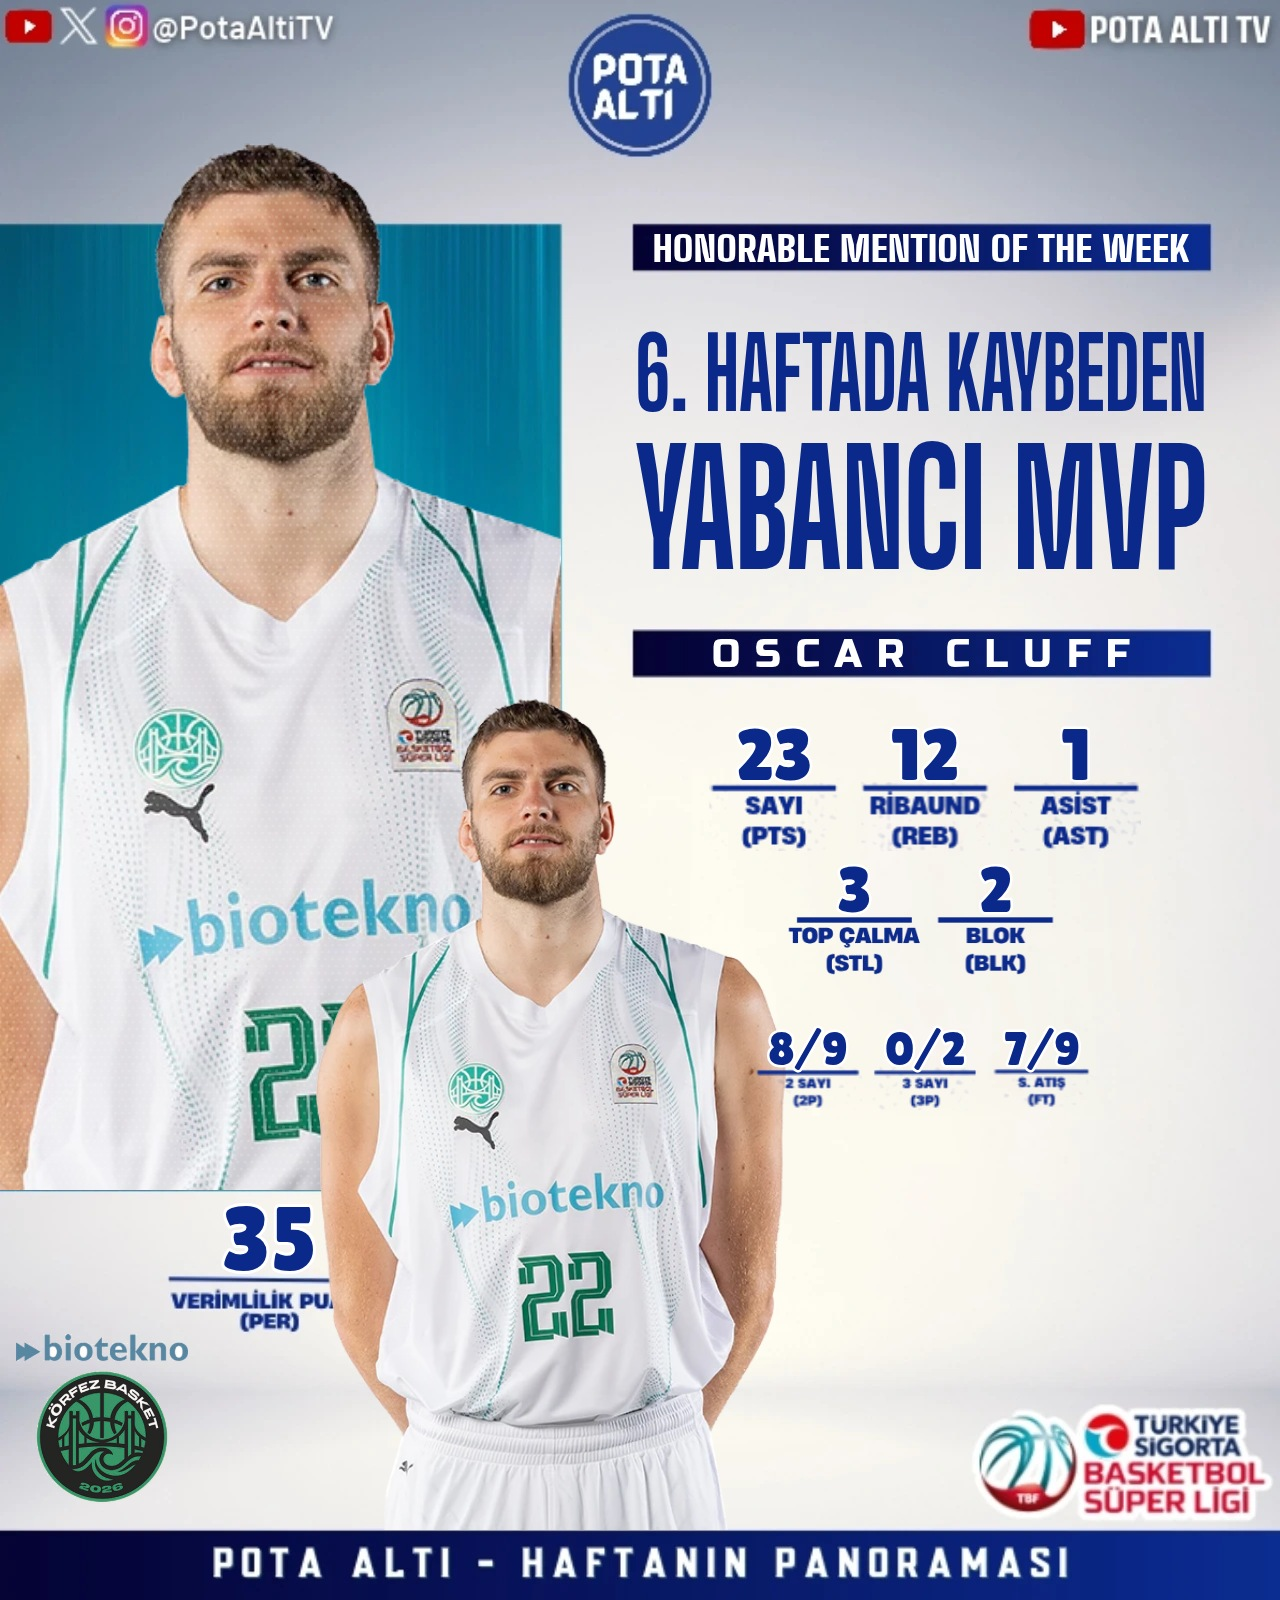
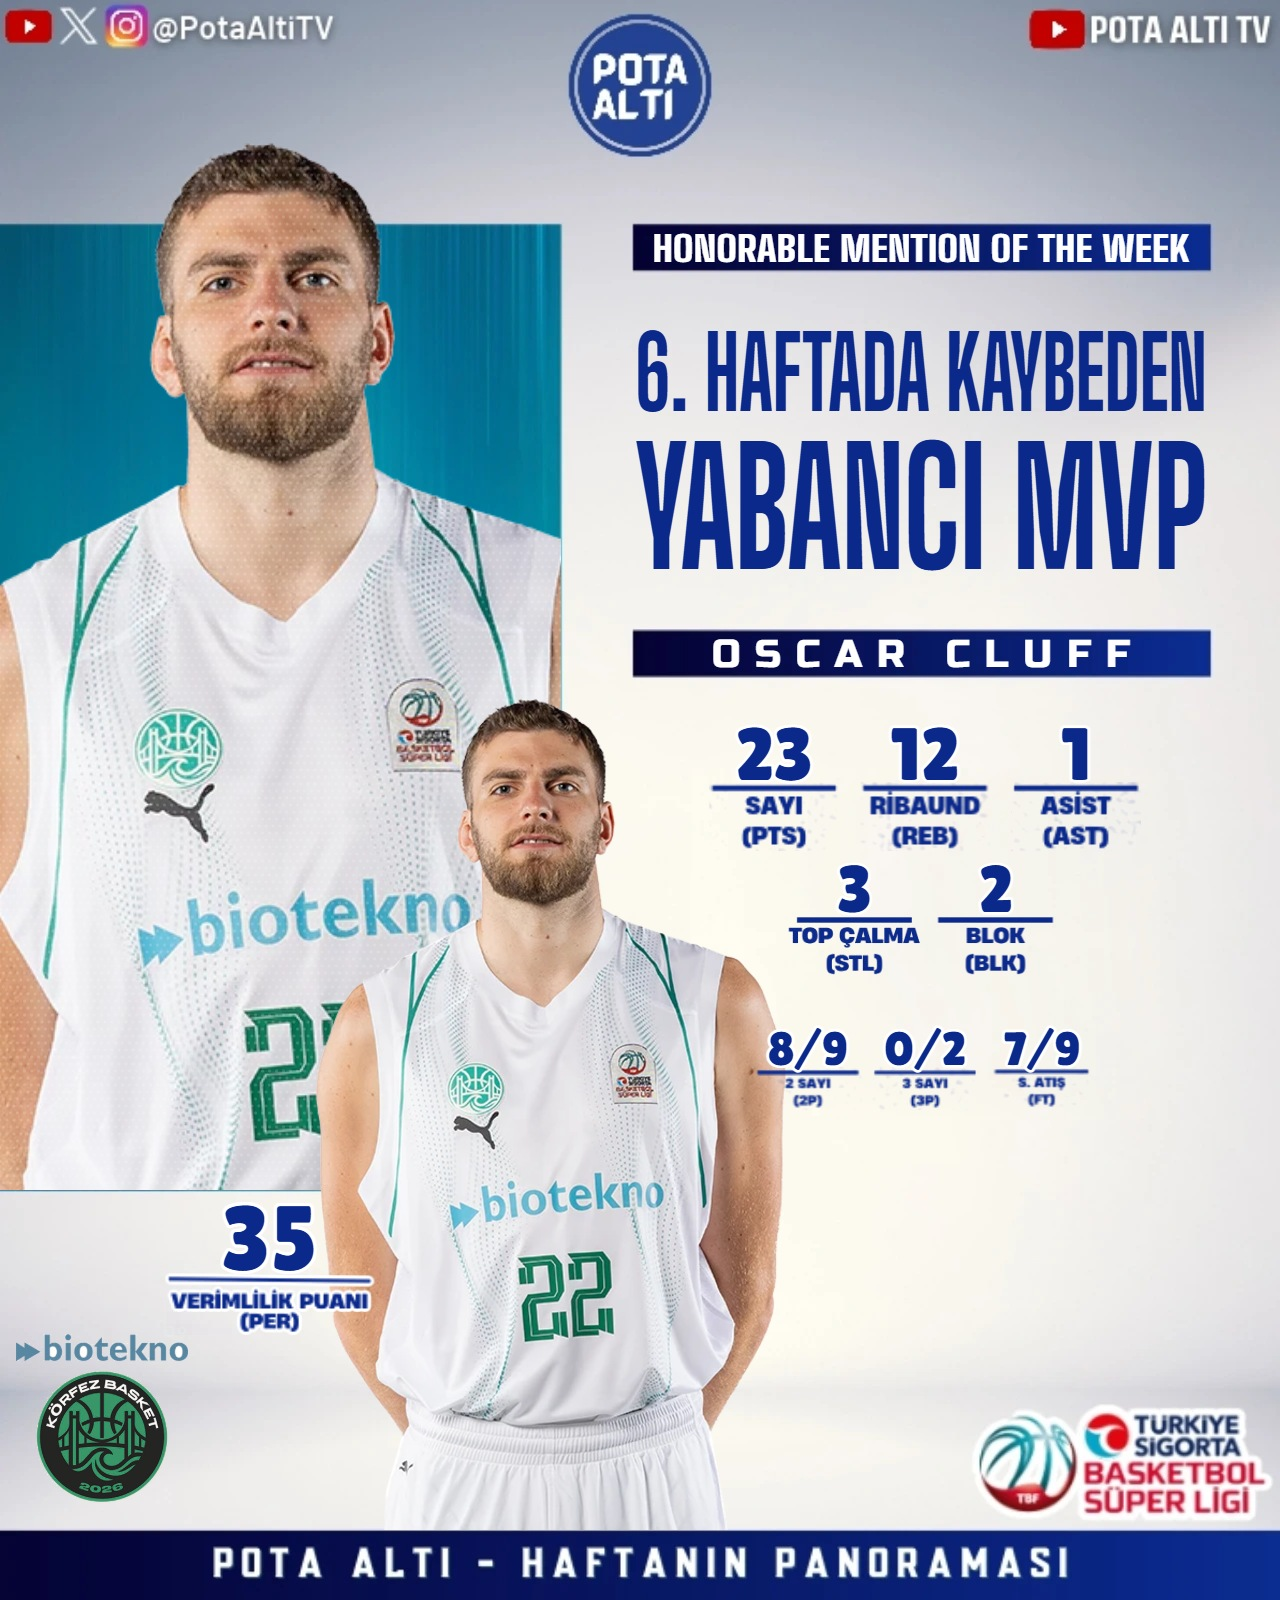
Ödül tekli: 'Verimlilik puanı' etiketi öndeki fotoğrafın üstüne beyaz kenarlı basılır; TBL 9 ve BSL 6 yenilendi

Changed region(s): [[0.1562, 0.7812, 0.3125, 0.8438]]

diff --git a/site/odul.js b/site/odul.js
@@ -181,7 +181,8 @@ export async function kapak({ lig = 'tbl', hafta }) {
 }
 
 // ---------- Tekli ödül (MVP, Yerli/Yabancı MVP, kaybeden MVP'ler) ----------
-const ETIKET = { sayi: [709, 782], rib: [861, 782], ast: [1012, 782], tc: [795, 914], blk: [944, 914], to: [862, 914], iki: [758, 1067], uc: [876, 1067], sa: [994, 1067] };
+const ETIKET = { sayi: [709, 782], rib: [861, 782], ast: [1012, 782], tc: [795, 914], blk: [944, 914], to: [862, 914], iki: [758, 1067], uc: [876, 1067], sa: [994, 1067],
+  vp: [166, 1274] }; // vp: şablondaki "VERİMLİLİK PUANI" etiketi; öndeki fotoğraf üstüne gelirse diye yeniden basılır
 // İkinci satırda top kaybı da var (sadece 0 ise, "*0" olarak); 1 asist, 1 top çalma, 1 blok da yazılır (0 olanlar atlanır)
 const satirlar = lig => [{ alanlar: ['sayi', 'rib', 'ast'], ara: 151, boy: 52 }, { alanlar: ['tc', 'blk', 'to'], ara: 141, boy: 46 },
   { alanlar: ['iki', 'uc', 'sa'], ara: 117, boy: 33 }];
@@ -189,6 +190,13 @@ const ORTA = 925;
 const etiketler = lig => Promise.all(Object.keys(ETIKET)
   .map(async a => [a, await resim(sablon(lig, `etiket-${a}.png`))])).then(Object.fromEntries);
 
+// Damga, rakamlar gibi beyaz kenarlı çizilir (koyu formanın üstünde de okunsun)
+function haleli(g, im, x, y, r) {
+  const b = new OffscreenCanvas(im.width, im.height), bg = b.getContext('2d');
+  bg.drawImage(im, 0, 0); bg.globalCompositeOperation = 'source-in'; bg.fillStyle = '#fff'; bg.fillRect(0, 0, im.width, im.height);
+  for (let a = 0; a < 16; a++) g.drawImage(b, x + r * Math.cos(a * Math.PI / 8), y + r * Math.sin(a * Math.PI / 8));
+  g.drawImage(im, x, y);
+}
 // Büyük fotoğrafa nokta dokusu (şablondaki gibi)
 function noktala(g, x, y, w, h) {
   g.save();
@@ -251,6 +259,7 @@ export async function tekli({ lig = 'tbl', tur, hafta, o, foto, logo }) {
       yaz(g, String(deger[a]), cx, ey - 2, { yazi: 'PXpx "Lilita One"', boy: s.boy, gen: s.ara - 12, renk: RENK, cizgi: 5 });
     });
   }
+  haleli(g, et.vp, ...ETIKET.vp, 3);
   yaz(g, String(o.vp), 270, 1270, { yazi: 'PXpx "Lilita One"', boy: 64, renk: RENK, cizgi: 6 });
   return blob(c);
 }
